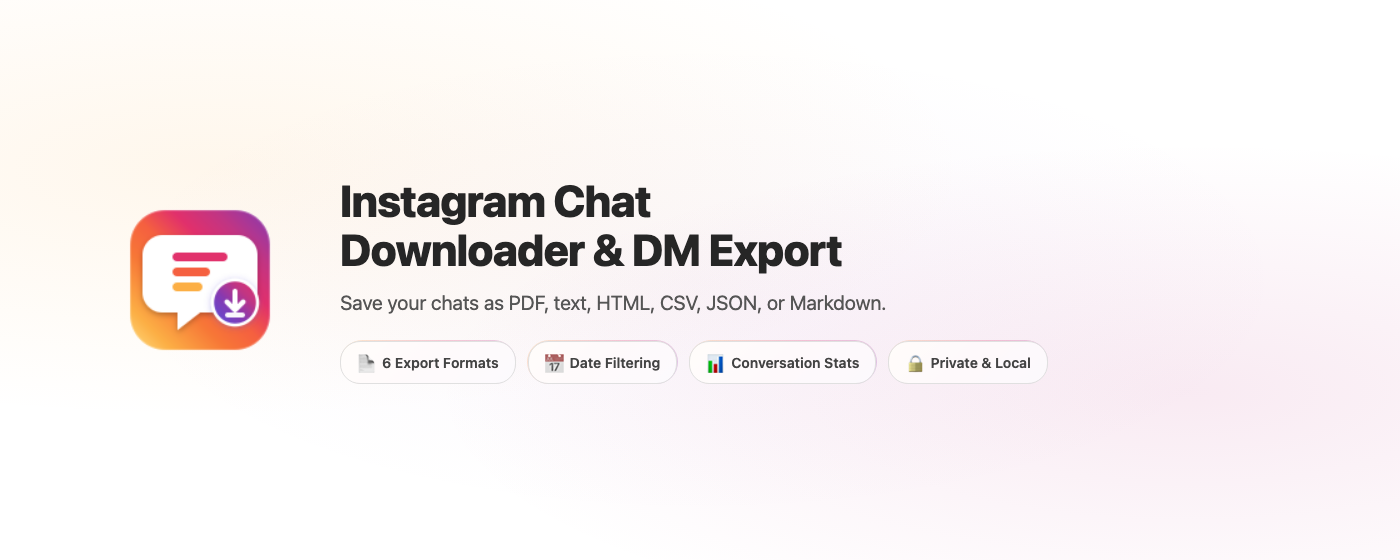
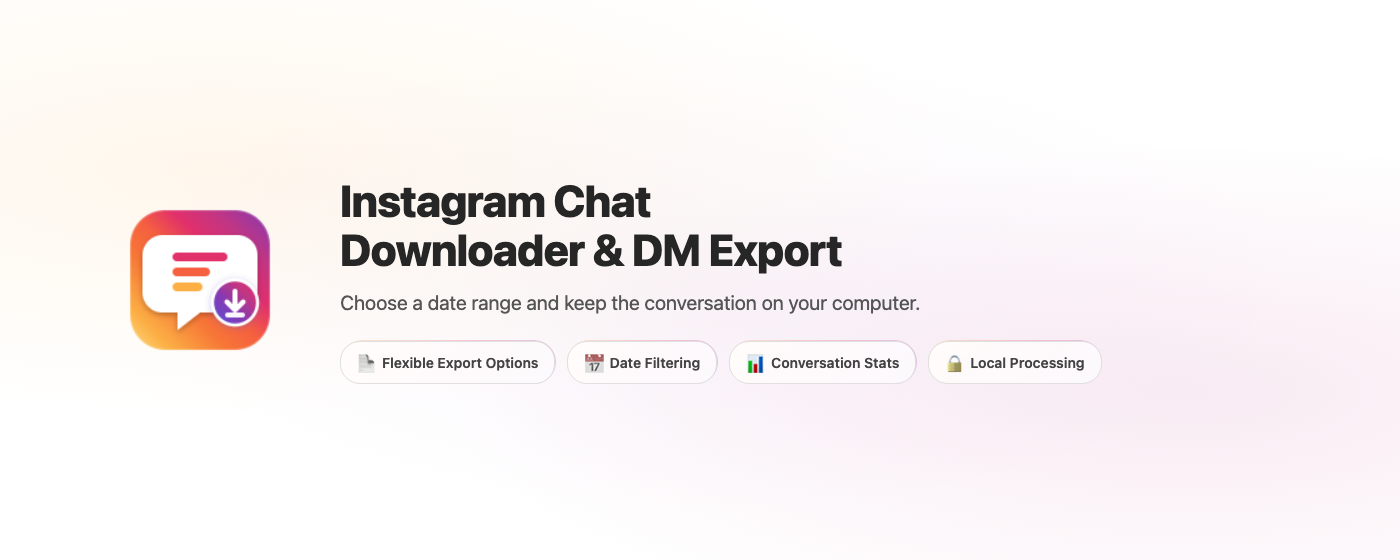
fix: remove format lists from Chrome listing assets

Changed region(s): [[0.2457, 0.5161, 0.645, 0.5768], [0.2764, 0.6071, 0.7986, 0.6679]]

diff --git a/screenshots/promo-tiles.html b/screenshots/promo-tiles.html
@@ -166,7 +166,7 @@ body {
 <div id="small-tile">
   <img class="icon" src="../extension/icons/icon128.png" alt="Instagram Chat Downloader and DM Export">
   <div class="title">Instagram Chat Downloader</div>
-  <div class="tagline">Save DMs as PDF, text, HTML, CSV, JSON, or Markdown</div>
+  <div class="tagline">Save one chat copy to your computer</div>
 </div>
 
 <!-- ===== Marquee Promo Tile (1400x560) ===== -->
@@ -176,12 +176,12 @@ body {
   </div>
   <div class="right">
     <div class="title">Instagram Chat<br>Downloader &amp; DM Export</div>
-    <div class="tagline">Save your chats as PDF, text, HTML, CSV, JSON, or Markdown.</div>
+    <div class="tagline">Choose a date range and keep the conversation on your computer.</div>
     <div class="features">
-      <div class="pill"><span class="pill-icon">&#128196;</span> 6 Export Formats</div>
+      <div class="pill"><span class="pill-icon">&#128196;</span> Flexible Export Options</div>
       <div class="pill"><span class="pill-icon">&#128197;</span> Date Filtering</div>
       <div class="pill"><span class="pill-icon">&#128202;</span> Conversation Stats</div>
-      <div class="pill"><span class="pill-icon">&#128274;</span> Private &amp; Local</div>
+      <div class="pill"><span class="pill-icon">&#128274;</span> Local Processing</div>
     </div>
   </div>
 </div>

diff --git a/screenshots/mockup.html b/screenshots/mockup.html
@@ -486,7 +486,7 @@ body {
     <div class="callout-dot"></div>
   </div>
   <div class="callout" style="bottom: 260px; right: 420px;">
-    <div class="callout-label">Save as PDF, text, HTML, CSV, JSON, or Markdown</div>
+    <div class="callout-label">Keep a copy on your computer</div>
     <div class="callout-line"></div>
     <div class="callout-dot"></div>
   </div>

diff --git a/docs/chrome-web-store-listing.md b/docs/chrome-web-store-listing.md
@@ -10,7 +10,7 @@ Export one Instagram conversation to files created in your browser.
 
 ## Description
 
-Save one DM conversation from your own account as PDF, plain text, HTML, CSV, JSON, or Markdown.
+Save a copy of one DM conversation from your own account to your computer.
 
 Choose a date range, extract the messages, and keep the result on your computer. The extension also reports local statistics, including messages per sender, date range, response time, and message types.
 
@@ -37,4 +37,4 @@ This independent extension is not affiliated with, endorsed by, or sponsored by 
 
 ## What is new
 
-v2.4.2: Corrected data-handling disclosures, narrowed permissions, reduced listing repetition, and made release ZIPs reproducible. Export features are unchanged.
+v2.4.2: Corrected data-handling disclosures, narrowed permissions, and reduced listing repetition. Export features are unchanged.
